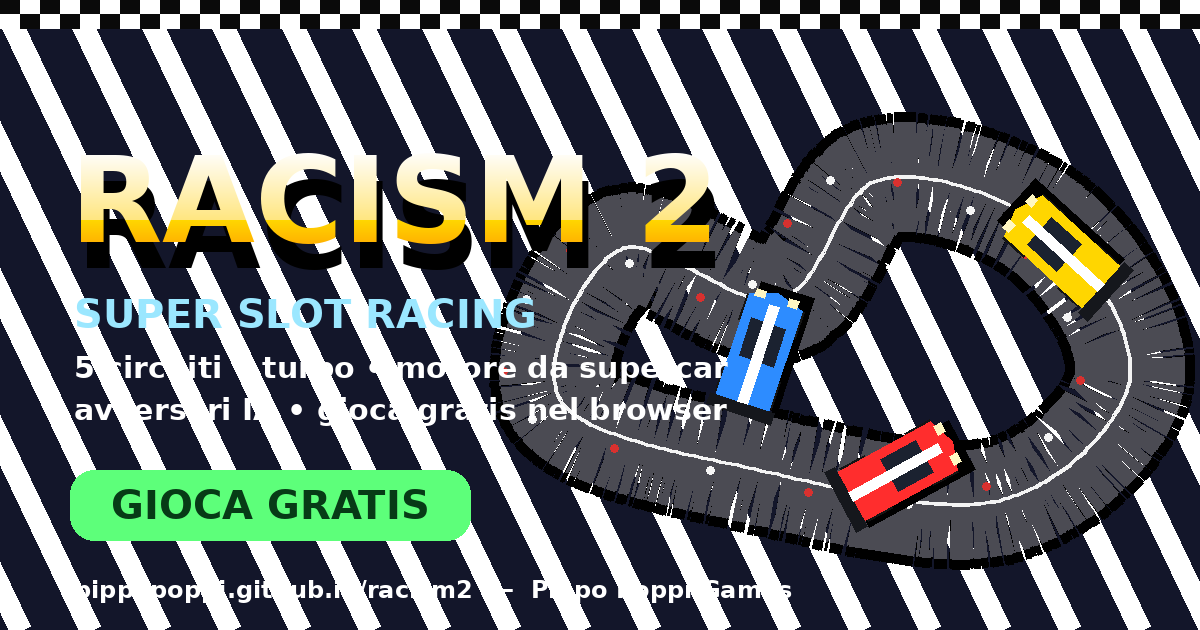
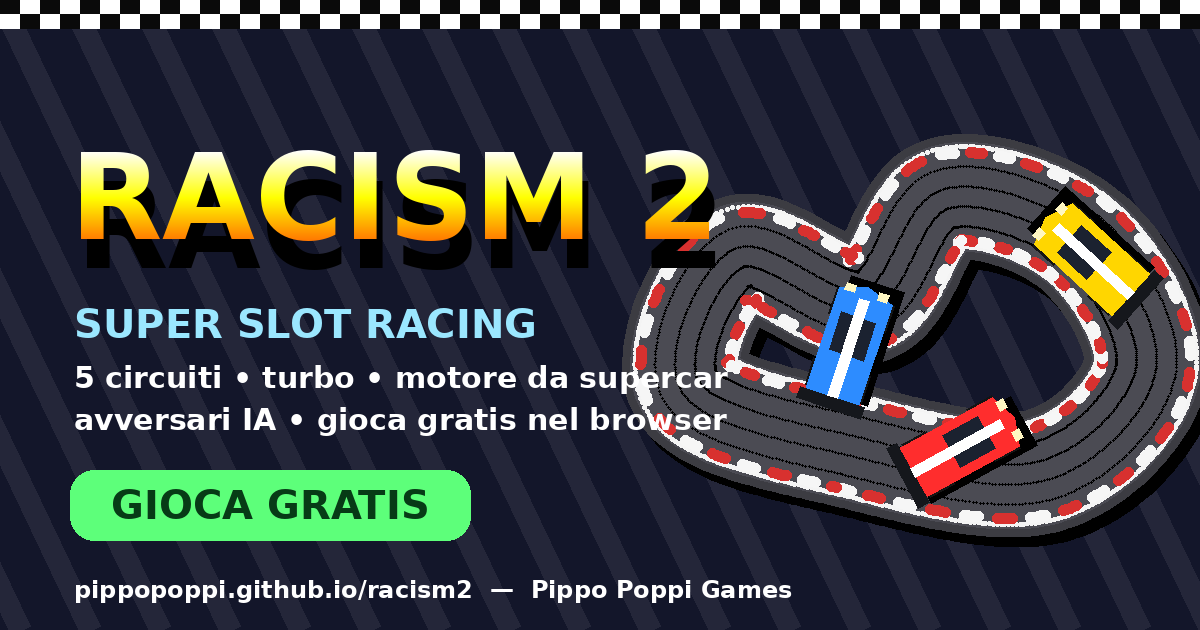
Fix social preview image

diff --git a/tools/make_og.py b/tools/make_og.py
@@ -30,43 +30,55 @@ def car(d, x, y, ang, col, L=120, W=56):
     d.polygon([P(L/2-10,-W/2+6),P(L/2-2,-W/2+6),P(L/2-2,-W/2+16),P(L/2-10,-W/2+16)], fill=(255,247,194,255))
     d.polygon([P(L/2-10,W/2-16),P(L/2-2,W/2-16),P(L/2-2,W/2-6),P(L/2-10,W/2-6)], fill=(255,247,194,255))
 W,H=1200,630
-img=Image.new('RGBA',(W,H),(19,22,42,255)); d=ImageDraw.Draw(img,'RGBA')
-for i in range(-10,30): d.line([(i*70,0),(i*70+300,H)],fill=(255,255,255,14),width=22)
+img=Image.new('RGBA',(W,H),(19,22,42,255))
+ov=Image.new('RGBA',(W,H),(0,0,0,0)); od=ImageDraw.Draw(ov)
+for i in range(-10,30): od.line([(i*70,0),(i*70+300,H)],fill=(255,255,255,18),width=22)
+img=Image.alpha_composite(img,ov); d=ImageDraw.Draw(img,'RGBA')
 for k in range(60):
     d.rectangle([k*20,0,k*20+20,14],fill=(255,255,255) if k%2 else (10,10,10)); d.rectangle([k*20,14,k*20+20,28],fill=(10,10,10) if k%2 else (255,255,255))
 pts=[(760,470),(1000,500),(1130,380),(1050,230),(880,180),(780,300),(620,250),(560,400)]
-poly=catmull(pts)
-d.line(poly+[poly[0]],fill=(0,0,0,120),width=130,joint='curve')
-d.line(poly+[poly[0]],fill=(75,75,83,255),width=110,joint='curve')
-d.line(poly+[poly[0]],fill=(244,244,244,255),width=4,joint='curve')
-for off in (-30,-10,10,30):
-    pass
-# kerbs: dashes
-for i in range(0,len(poly),16):
-    x,y=poly[i]; d.ellipse([x-50-4,y-4,x-50+4,y+4],fill=(216,49,47) if (i//16)%2 else (246,246,246))
-car(d,900,470,-0.5,(255,45,45,255)); car(d,760,350,-1.25,(45,140,255,255)); car(d,1060,250,-2.4,(255,214,0,255))
-# title
+pts=[(930+(x-860)*0.8,335+(y-340)*0.85) for x,y in pts]
+poly=catmull(pts,60)
+def brush(points,r,col):
+    for (x,y) in points: d.ellipse([x-r,y-r,x+r,y+r],fill=col)
+brush([(x+8,y+10) for x,y in poly],62,(0,0,0,90))
+brush(poly,62,(60,60,66,255)); brush(poly,54,(75,75,83,255))
+n=len(poly)
+def offset(o):
+    out=[]
+    for i in range(n):
+        ax,ay=poly[(i-1)%n]; bx,by=poly[(i+1)%n]; L=math.hypot(bx-ax,by-ay) or 1
+        nx,ny=-(by-ay)/L,(bx-ax)/L; x,y=poly[i]; out.append((x+nx*o,y+ny*o))
+    return out
+for side in (-1,1):
+    brush(offset(side*50),2,(244,244,244,255))
+    e=offset(side*44)
+    for i in range(0,n,9): brush(e[i:i+5],5,(216,49,47,255) if (i//9)%2 else (246,246,246,255))
+for o in (-30,-10,10,30): brush(offset(o),1,(0,0,0,120))
+car(d,962,446,-0.5,(255,45,45,255)); car(d,850,344,-1.25,(45,140,255,255)); car(d,1090,258,-2.4,(255,214,0,255))
 f1=font(120); f2=font(40); f3=font(30)
 t='RACISM 2'
-for dx,dy in [(6,6)]: d.text((70+dx,150+dy),t,font=f1,fill=(0,0,0,170))
-tw=d.textlength(t,font=f1)
-grad=Image.new('RGBA',(int(tw)+20,140)); gd=ImageDraw.Draw(grad)
-for y in range(140):
-    r=y/140; col=(255,int(255-r*50),int(255-r*255)) if r<0.5 else (255,int(214-(r-0.5)*2*108),0)
+bb=d.textbbox((0,0),t,font=f1,anchor='la'); tw,th=bb[2]-bb[0],bb[3]-bb[1]
+d.text((76,156),t,font=f1,fill=(0,0,0,170),anchor='la')
+grad=Image.new('RGBA',(tw+4,th+4)); gd=ImageDraw.Draw(grad)
+for y in range(th+4):
+    r=y/(th+4); col=(255,255,int(255-r*2*255)) if r<0.5 else (255,int(255-(r-0.5)*2*150),0)
     gd.line([(0,y),(grad.width,y)],fill=col+(255,))
-mask=Image.new('L',grad.size,0); ImageDraw.Draw(mask).text((0,-20),t,font=f1,fill=255)
-img.paste(grad,(70,150),mask)
-d.text((74,290),'SUPER SLOT RACING',font=f2,fill=(155,231,255,255))
-d.text((74,350),'5 circuiti • turbo • motore da supercar',font=f3,fill=(255,255,255,230))
-d.text((74,392),'avversari IA • gioca gratis nel browser',font=f3,fill=(255,255,255,230))
+mask=Image.new('L',grad.size,0); ImageDraw.Draw(mask).text((-bb[0],-bb[1]),t,font=f1,fill=255,anchor='la')
+img.paste(grad,(70,150),mask); d=ImageDraw.Draw(img,'RGBA')
+d.text((74,300),'SUPER SLOT RACING',font=f2,fill=(155,231,255,255))
+d.text((74,360),'5 circuiti • turbo • motore da supercar',font=f3,fill=(255,255,255,235))
+d.text((74,402),'avversari IA • gioca gratis nel browser',font=f3,fill=(255,255,255,235))
 d.rounded_rectangle([70,470,470,540],radius=24,fill=(93,255,122,255))
 d.text((270,505),'GIOCA GRATIS',font=f2,fill=(7,59,22,255),anchor='mm')
-d.text((74,575),'pippopoppi.github.io/racism2  —  Pippo Poppi Games',font=font(24),fill=(255,255,255,170))
+d.text((74,575),'pippopoppi.github.io/racism2  —  Pippo Poppi Games',font=font(24),fill=(255,255,255,180))
 img.convert('RGB').save(os.path.join(OUT,'og.png'),optimize=True)
 # icon 180
 ic=Image.new('RGBA',(180,180),(19,22,42,255)); dd=ImageDraw.Draw(ic,'RGBA')
 ipts=[(40,120),(70,50),(120,45),(150,80),(130,130),(80,150)]
-ip=catmull(ipts,30); dd.line(ip+[ip[0]],fill=(75,75,83,255),width=30,joint='curve'); dd.line(ip+[ip[0]],fill=(244,244,244,255),width=2,joint='curve')
+ip=catmull(ipts,30)
+for (x,y) in ip: dd.ellipse([x-16,y-16,x+16,y+16],fill=(75,75,83,255))
+for (x,y) in ip: dd.ellipse([x-13,y-13,x+13,y+13],fill=(75,75,83,255))
 car(dd,112,70,-0.6,(255,45,45,255),L=56,W=26)
 dd.text((90,160),'R2',font=font(26),fill=(255,214,0,255),anchor='mm')
 ic.convert('RGB').save(os.path.join(OUT,'icon-180.png'),optimize=True)
